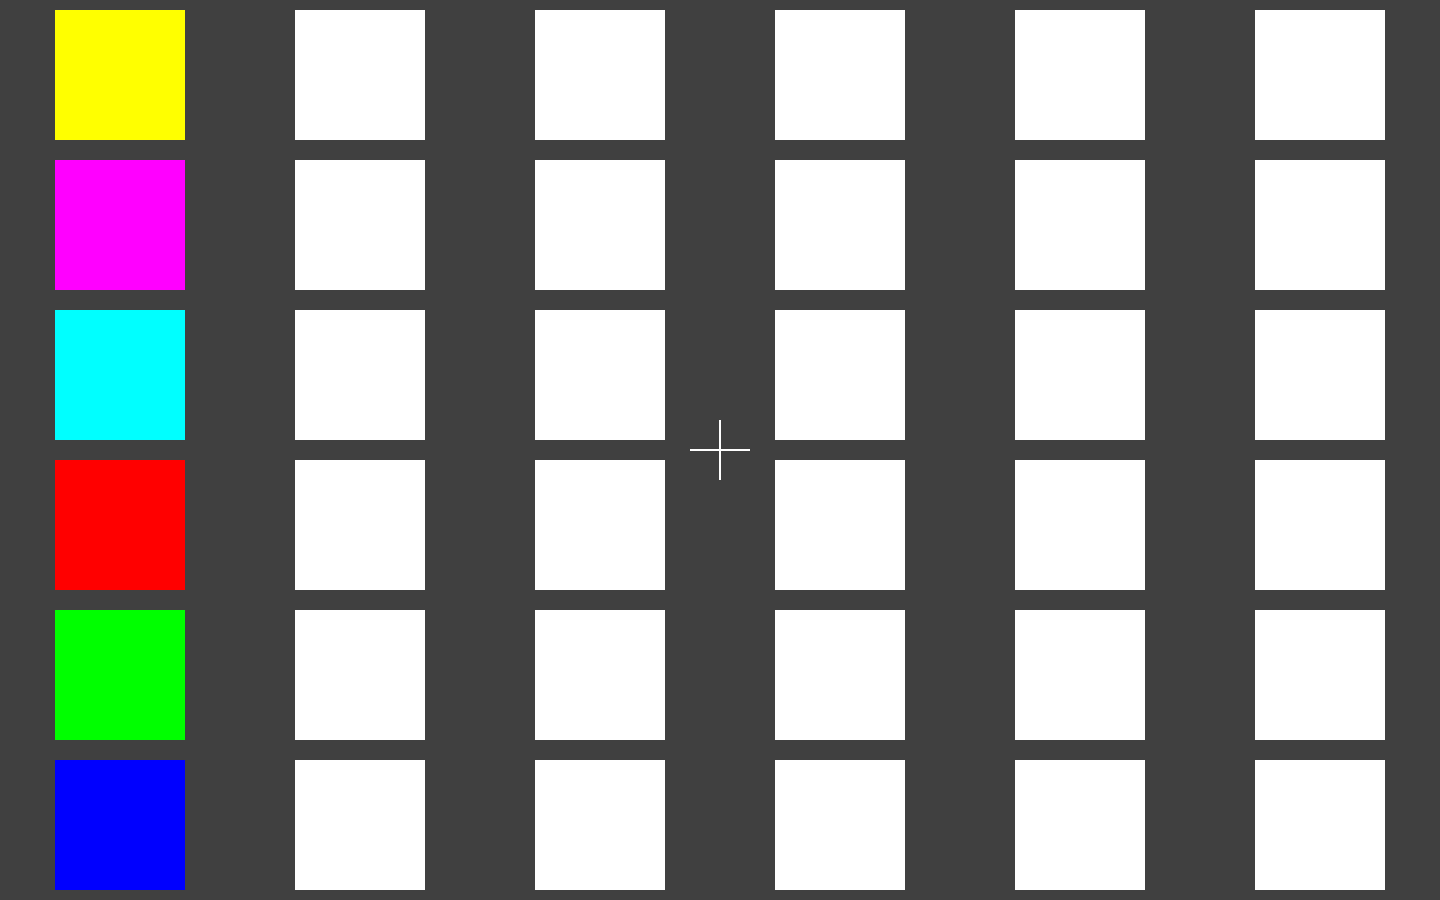
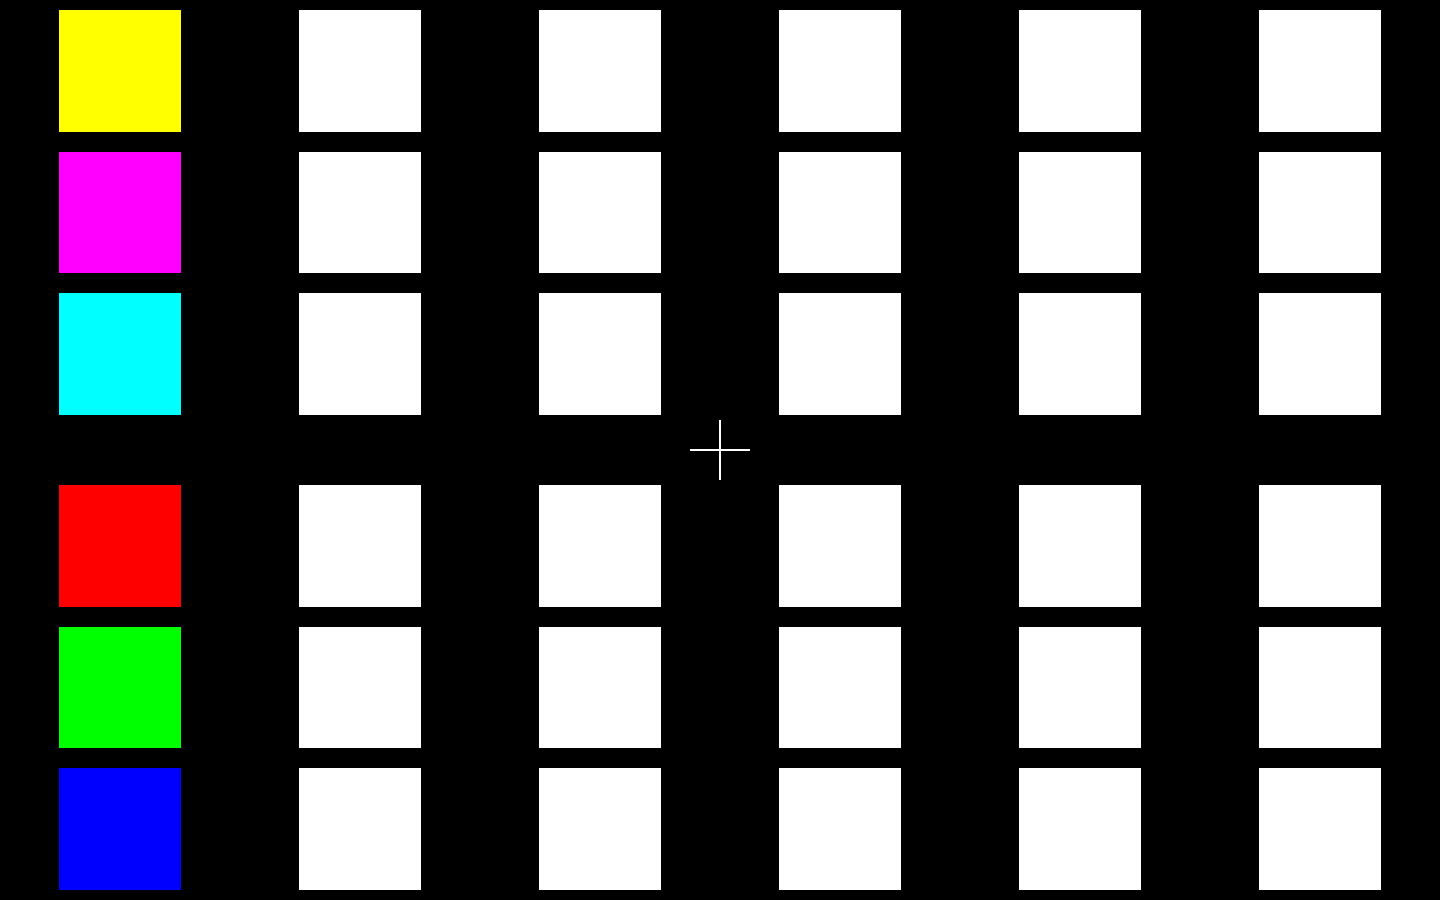
Supporting material update

diff --git a/README.md b/README.md
@@ -15,7 +15,6 @@ The `CatStudy` Class is used and it provides all the functionality to interface 
 Every single file is commented and should be very self-explanatory.
 
 ## TODOs
-- Either add non-changing squares along the centre and middle axis or increase the gap between top and bottom, and left and right squares
 - Add a "pause" screen to display in between blocks
 - Write the EEG interface to send time signals to EEG computer over some COM/Serial/Parallel port
 - Write finite state machine (FSM) to keep track of the trial progress for the EEG interface
@@ -45,11 +44,11 @@ run.m | N | A sample MATLAB code, demonstrating how to use the `CatStudy` class.
 
 ## Trial execution
 
-Upon launch, the code will, by default, generate a `6x6` grid of squares that can be coloured in yellow, magenta, cyan, red, green, blue or white. These colours are binary combinations of the RGB colour values. The test grid should look like so:
+Upon launch, the code will, by default, generate a `6x6` grid of squares that can be coloured in yellow, magenta, cyan, red, green, blue or white. These colours are binary combinations of the RGB colour values. Additionally, the vertical and horizontal space between each quadrant of the screen can be manually adjusted. This was done to give the subject a better indication of *up* and *down* as well as *left* and *right*. The test grid should look like so:
 
 ![Grid of 6x6 squqres](https://raw.githubusercontent.com/Muxelmann/CatEEGfMRIStudy/master/supporting/squares_grid.png)
 
-Then the answering rectangles are displayed to assure they cover all quarters of the screen. The colours and numbering of these rectangles have not been finalised, but they align and display correctly.
+Then the answering rectangles are displayed. Each one covers one quarter of the screen over which a change might have occurred. The numbering of these rectangles has not been finalised (as they need to match the input), but they align and display correctly.
 
 ![Four answering rectangles](https://raw.githubusercontent.com/Muxelmann/CatEEGfMRIStudy/master/supporting/answer_grid.png)
 
@@ -60,7 +59,8 @@ After this alignment test, the trial starts, where `n*2` squares are displayed. 
 3. Retention Interval: *An empty screen with a fixation cross is displayed, and replaces the Memory Array. The EEG computer is also notified of this event.*
 4. Test Array: *The second set of squares, where all squares are in the same location is displayed. One square may have changed colour. The appearance of the Test Array is also transmitted to the EEG computer.*
 
-![Sample trial](https://raw.githubusercontent.com/Muxelmann/CatEEGfMRIStudy/master/supporting/sample_trial.png)
+![Sample trial](https://raw.githubusercontent.com/Muxelmann/CatEEGfMRIStudy/master/supporting/sample_trial_01.png)
+![Sample trial](https://raw.githubusercontent.com/Muxelmann/CatEEGfMRIStudy/master/supporting/sample_trial_02.png)
 
 After each trial, the subject is asked to answer a set of questions to determine whether there was a change, where the change was, and how certain the subject is with his/her answers. Correspondingly, the instance the subject presses an answer button, the EEG computer is notified of the corresponding answer, to mark this decision making in the recorded data.
 
